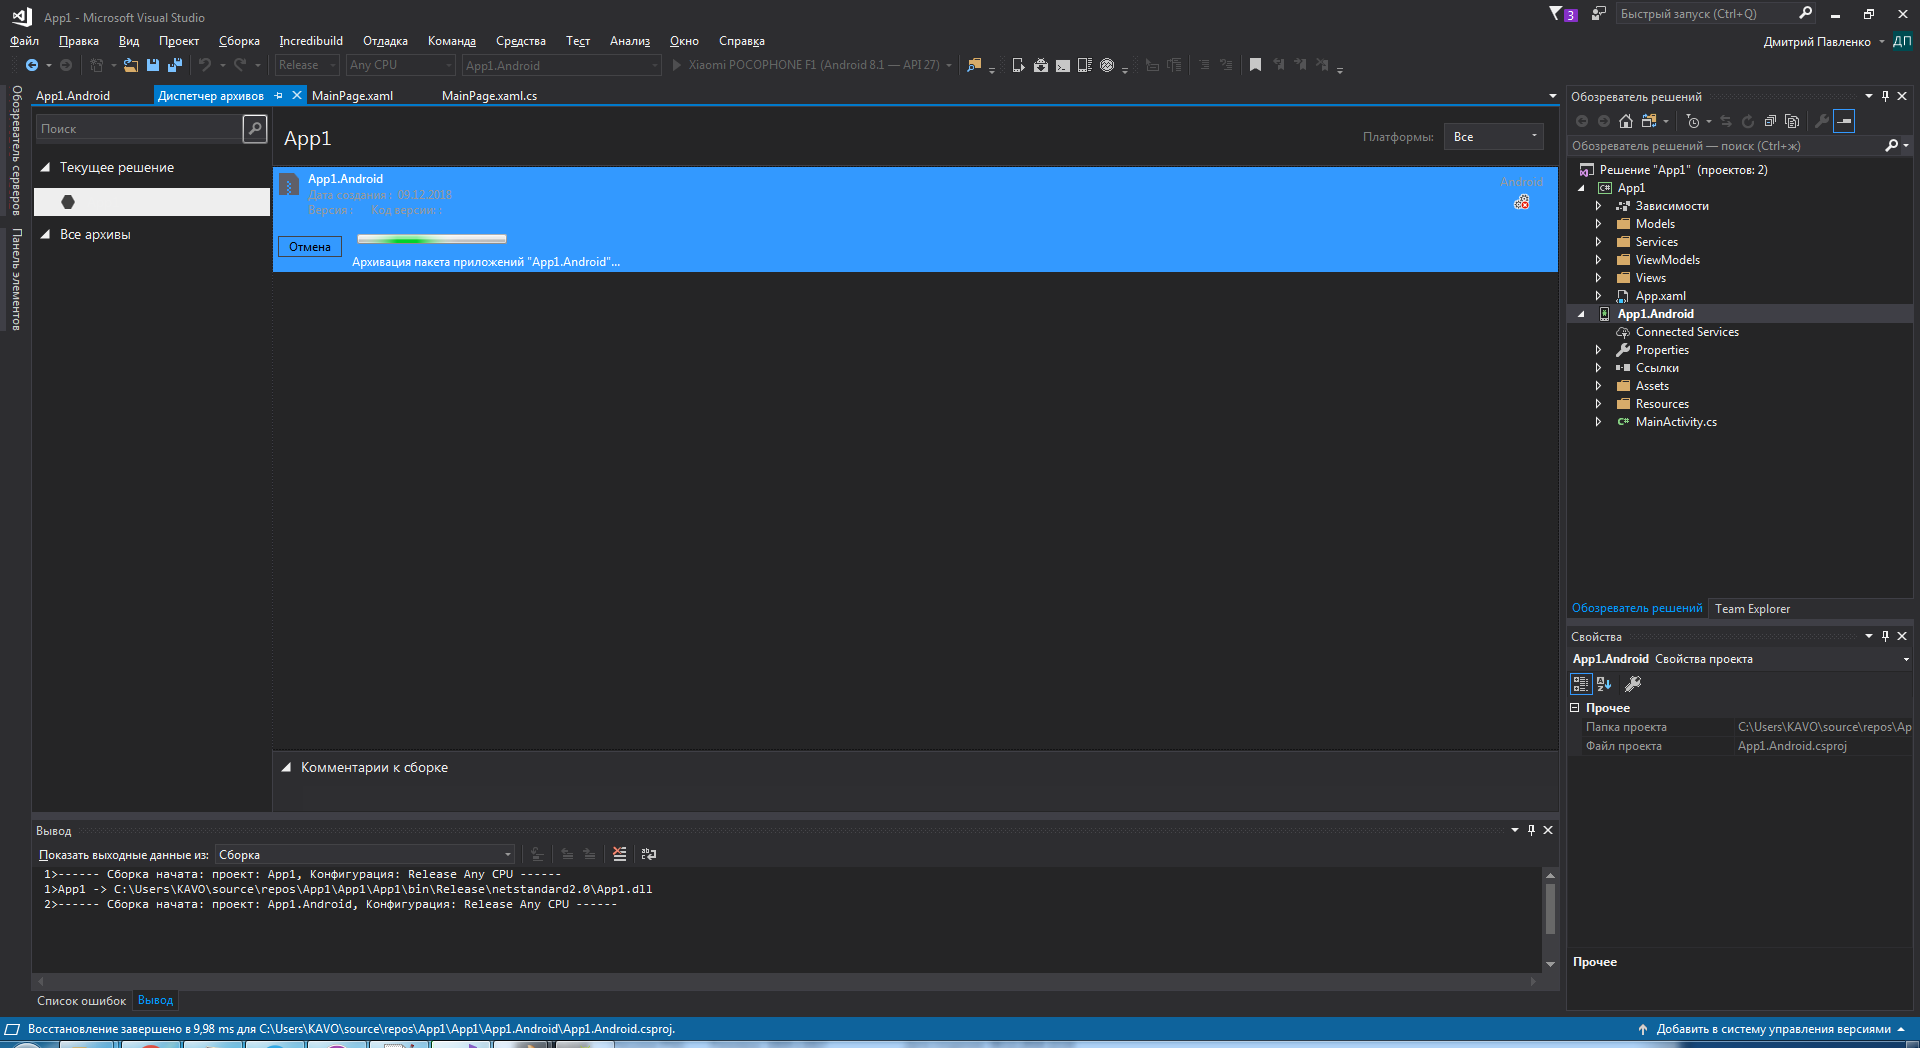
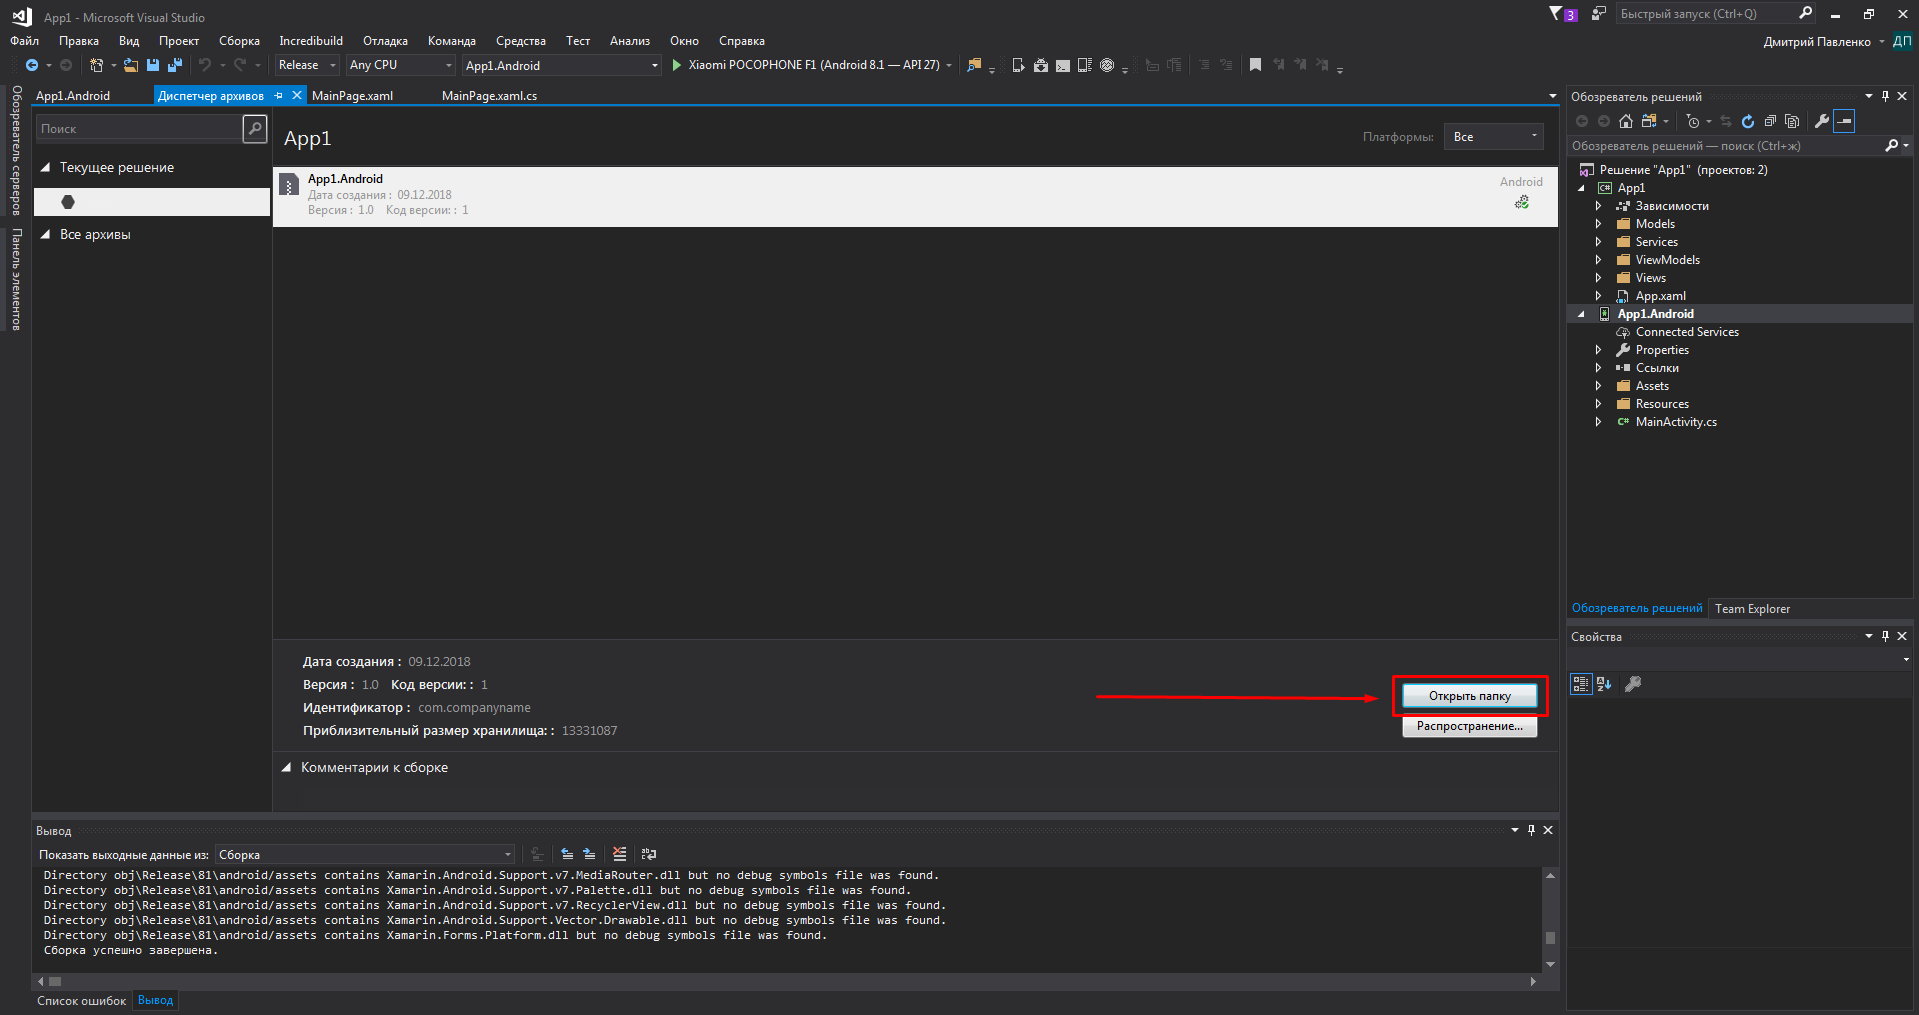
Lesson 1 edit 1

diff --git a/Lesson 1/Readme.md b/Lesson 1/Readme.md
@@ -51,11 +51,11 @@ http://dl.adbdriver.com/upload/adbdriver.zip
 
 2. Обозреватель решений -> Правай кнопка выше по Android проекту -> Архивация
 
-![7](Images/6.png)
-
-![8](Images/7.png)
+![7](Images/7.png)
 
 3. Открываем папку -> Копируем файл с расширением .apk на телефон и устанавливаем
+
+![8](Images/8.png)
 
 ## Xamarin.Forms
 
